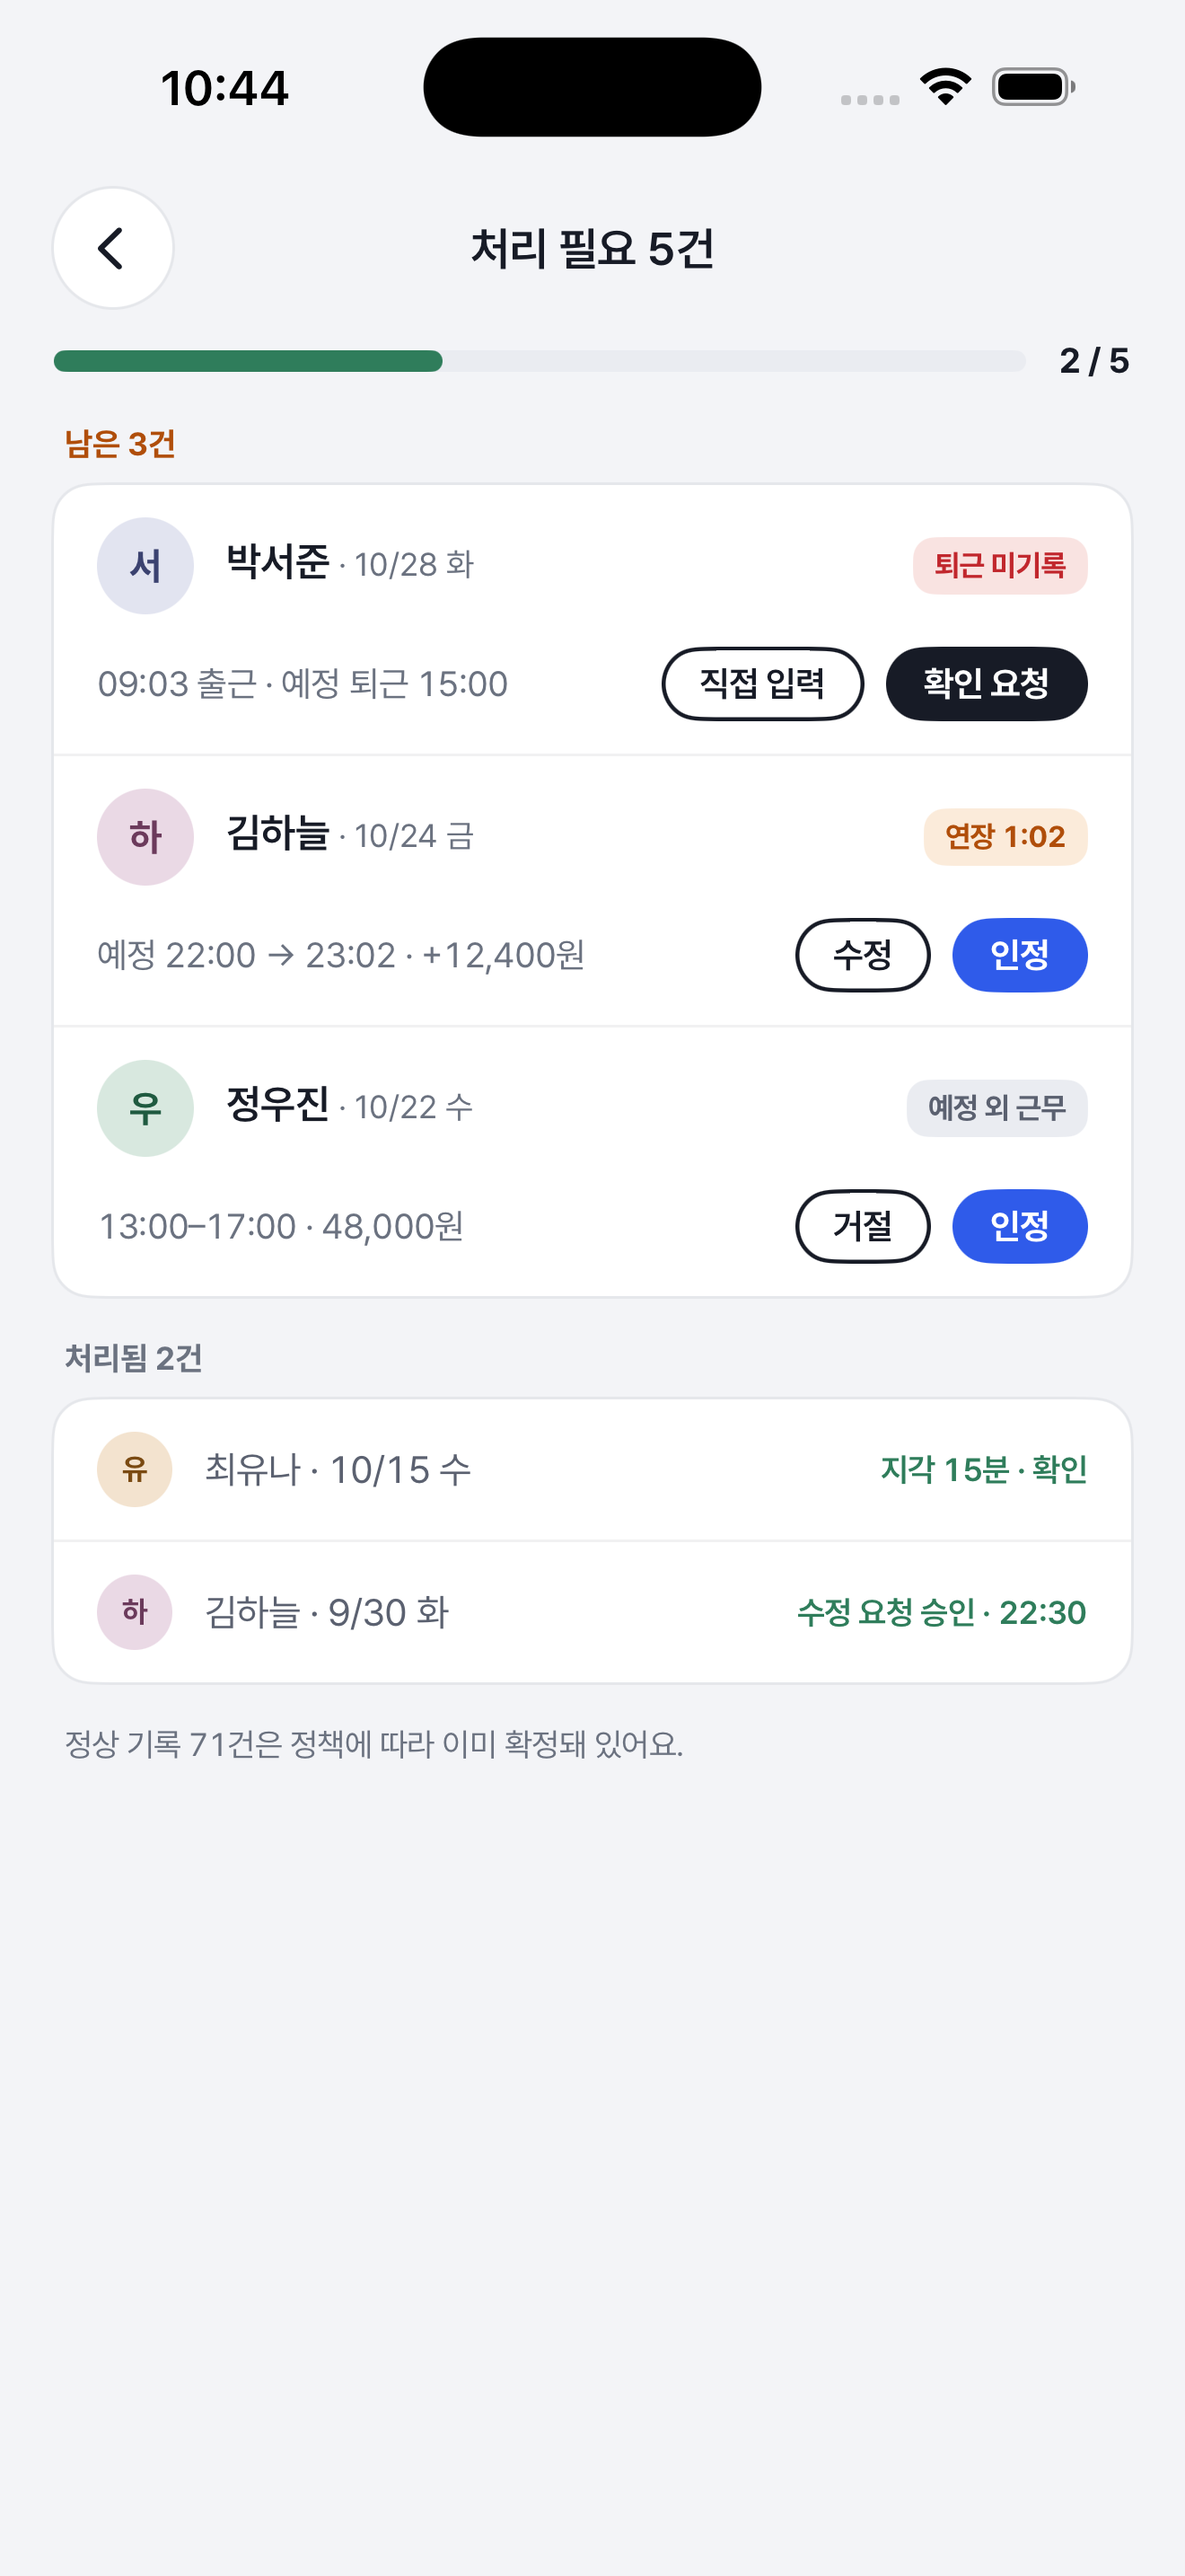
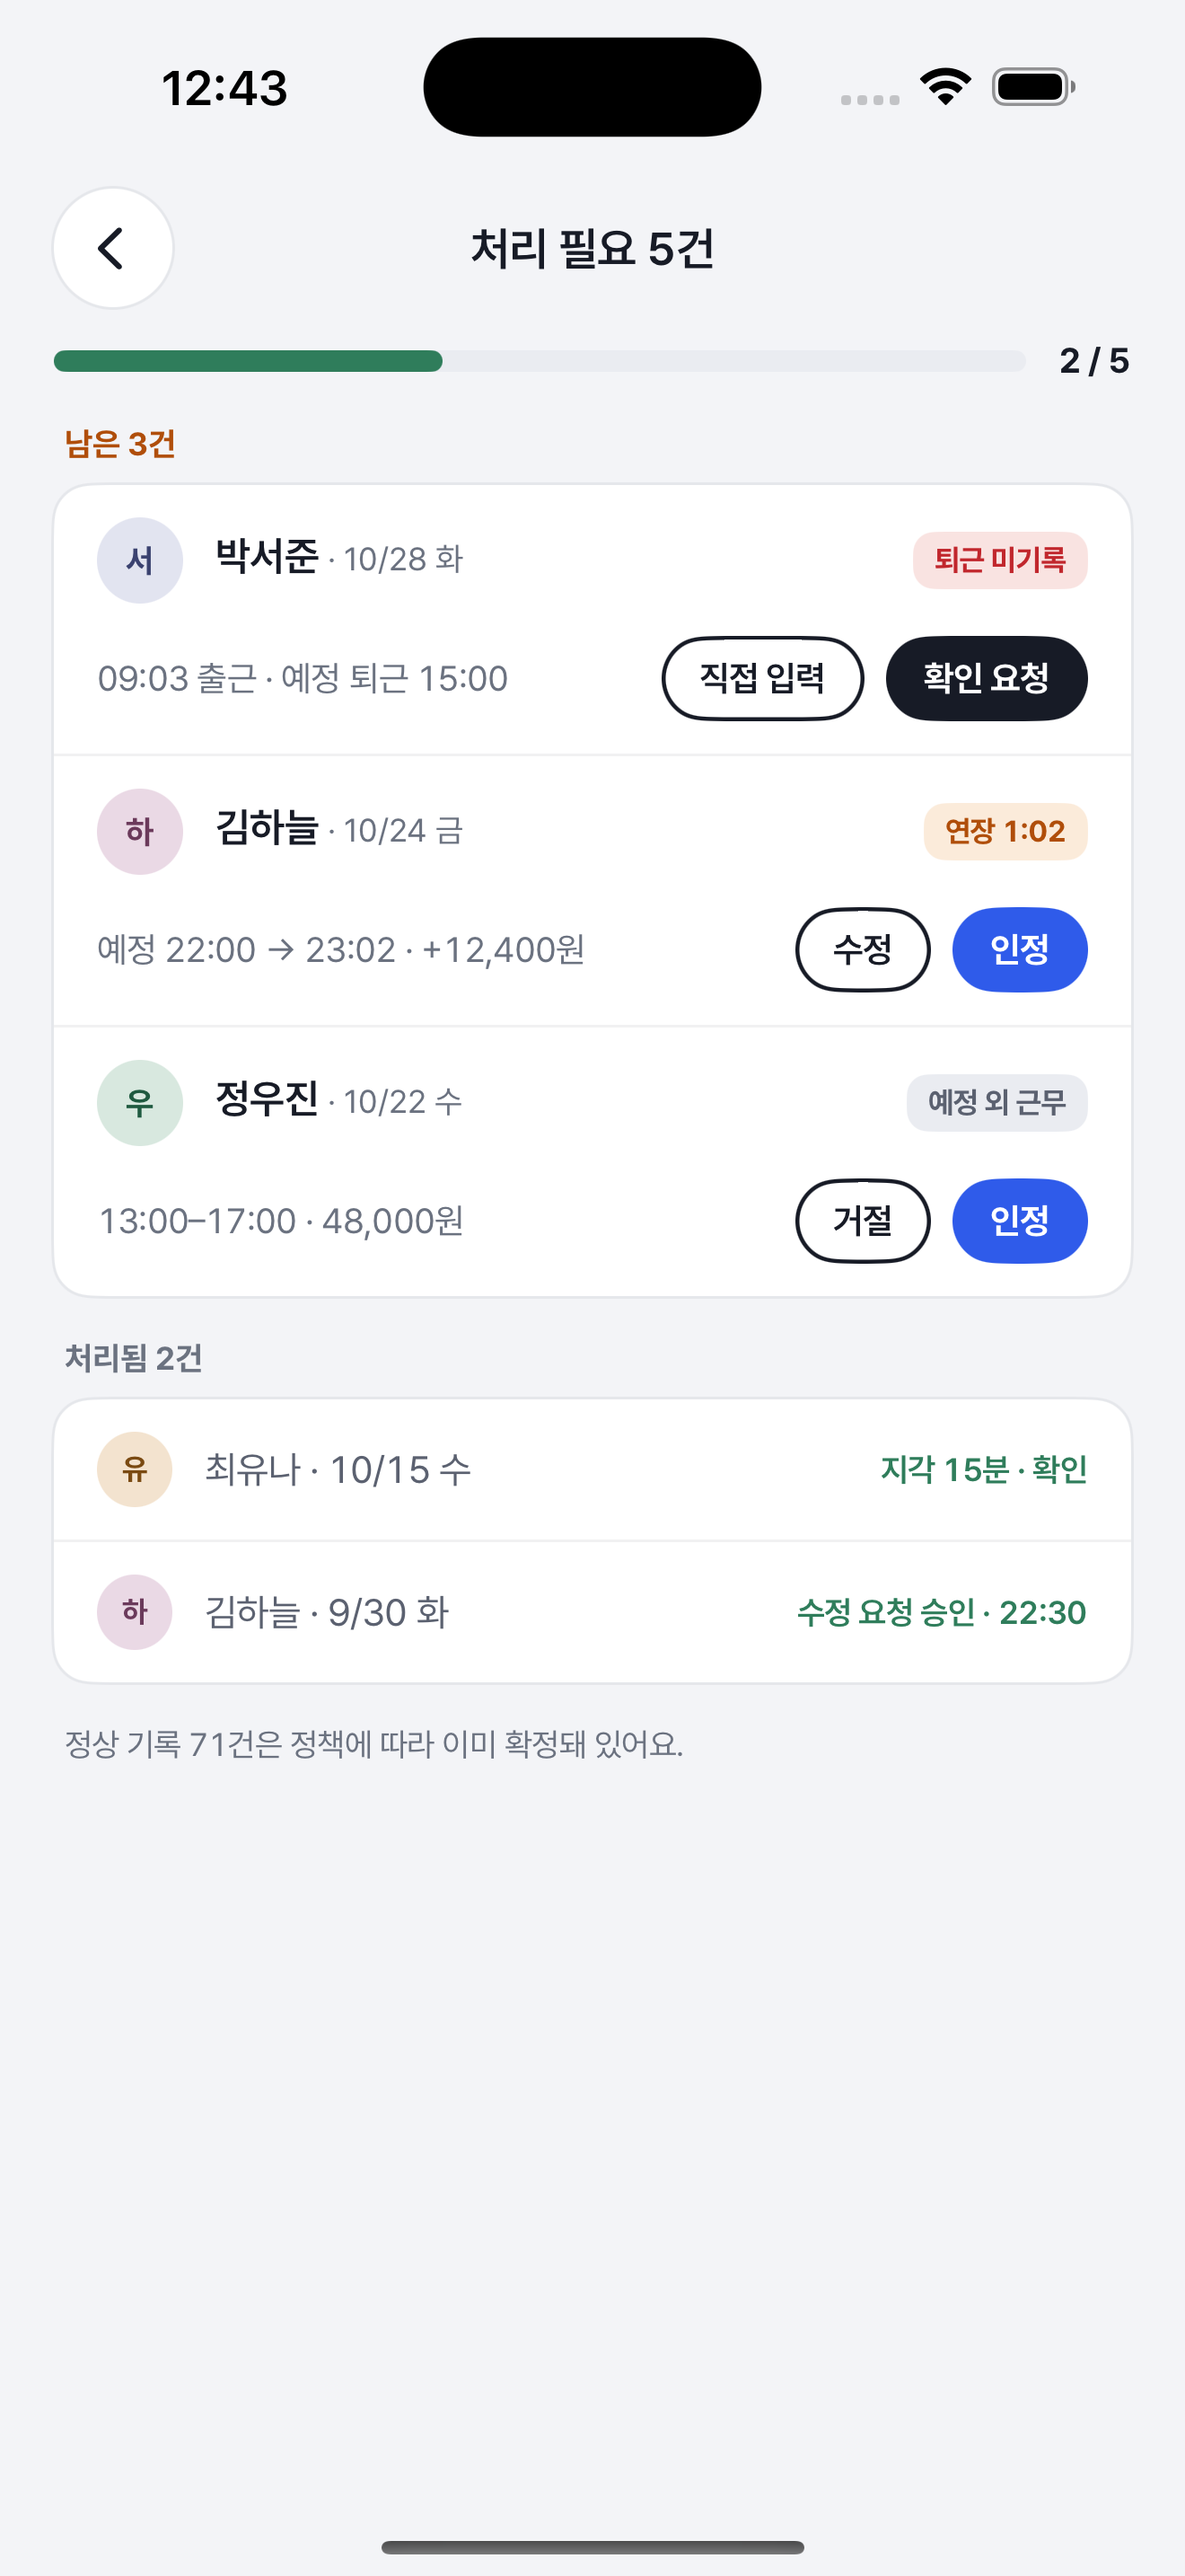
fix(payroll): 8b 알약 버튼 높이 · 남은 행 아바타 크기를 원문대로 (#417)
원문과 캡처를 pt로 다시 재어 보니 알약이 약 26pt(원문 약 31), 아바타가 36pt(원문 약 32)였다.

Refs UI-IOS-8b

diff --git a/Pum/Pum/Features/Payroll/WorkClosingProblems/WorkClosingProblemsView.swift b/Pum/Pum/Features/Payroll/WorkClosingProblems/WorkClosingProblemsView.swift
@@ -14,6 +14,7 @@ struct WorkClosingProblemsView: View {
     @State private var lock = WorkClosingRowLock()
     @Environment(\.accessibilityReduceMotion) private var reduceMotion
     @ScaledMetric(relativeTo: .body) private var barHeight = PumTokens.Space.s8
+    @ScaledMetric(relativeTo: .body) private var rowAvatar = PumLayout.avatar - PumTokens.Space.s4 // 남은 행 아바타 원문 약 32pt
     @ScaledMetric(relativeTo: .body) private var smallAvatar = PumLayout.avatar - PumTokens.Space.s8 // 처리됨 행 아바타 약 28pt
 
     var body: some View {
@@ -80,7 +81,7 @@ struct WorkClosingProblemsView: View {
         // 원문: 위 줄은 아바타 옆 이름 · 배지, 아래 줄(설명 · 버튼)은 아바타 아래까지 카드 폭 전체
         return VStack(alignment: .leading, spacing: PumTokens.Space.s12) {
             HStack(alignment: .center, spacing: PumTokens.Space.s12) {
-                PumAvatar(name: item.name, colorIndex: item.colorIndex)
+                PumAvatar(name: item.name, colorIndex: item.colorIndex, size: rowAvatar)
                 ViewThatFits(in: .horizontal) {
                     HStack(alignment: .firstTextBaseline, spacing: PumTokens.Space.s8) {
                         nameDate(item)
@@ -227,7 +228,7 @@ private struct ProblemPill: View {
                 .foregroundStyle(style == .outline ? PumColor.textPrimary : .white)
                 .lineLimit(1)
                 .padding(.horizontal, PumTokens.Space.s14)
-                .padding(.vertical, PumTokens.Space.s6)
+                .padding(.vertical, PumTokens.Space.s8) // 원문 알약 높이 약 31
                 .background(fill, in: Capsule())
                 .overlay { if style == .outline { Capsule().strokeBorder(PumColor.textPrimary, lineWidth: PumTokens.Shadow.outline.spread) } }
                 // 누름 영역: 키운 뒤 같은 만큼 음수 padding으로 되돌려 배치는 그대로

diff --git a/docs/design/compare/screens/README.md b/docs/design/compare/screens/README.md
@@ -734,7 +734,8 @@
 |---|---|---|---|
 | 배치 · 문구 | 처리 필요 5건 / 막대 · 2 / 5 / 남은 3건(이름 · 날짜 · 배지, 설명 · 알약 두 개) / 처리됨 2건(초록 결과) / 정상 기록 안내 | 같음 | 일치 |
 | 설명 · 버튼 줄 | 아바타 아래까지 카드 폭 전체 | 처음엔 이름 열에 들여 써서 박서준 버튼이 줄바꿈 → 고침 | 일치 |
-| 알약 버튼 | 높이 약 30 · 15px | 약 27 · footnote 13, 누름 영역 44 | 근사 |
+| 알약 버튼 | 높이 약 31 · 13px(dump) | 처음 약 26 → 위아래 여백 s8로 약 30(2026-10-13 다시 맞춤), footnote 13, 누름 영역 44 | 일치 |
+| 남은 행 아바타 | 약 32 | 처음 36(공통 기본값) → 32로 고침 | 일치 |
 | 이름 | 16px 700 | body 15 semibold | 근사 |
 | 처리 동작 | 처리하면 아래로 | 행만 잠금 → 서버 새 상태로 다시 그림(화면에서 옮기지 않음) | 구현 기준 |
 | 직접 입력 · 수정 | — | 입력 화면 여는 클로저(onEdit), 잠금 없음 | 구현 기준 |
